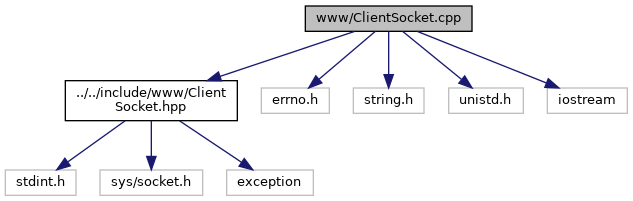
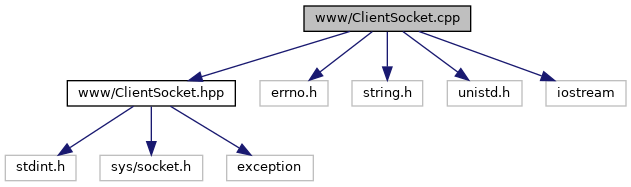
deploy: a7a002efcf221a9d8ebd544183a8181709af5a44

diff --git a/Request_8cpp_source.html b/Request_8cpp_source.html
@@ -63,7 +63,7 @@ $(document).ready(function(){initNavTree('Request_8cpp_source.html',''); initRes
 <div class="title">Request.cpp</div>  </div>
 </div><!--header-->
 <div class="contents">
-<a href="Request_8cpp.html">Go to the documentation of this file.</a><div class="fragment"><div class="line"><a name="l00001"></a><span class="lineno">    1</span>&#160;<span class="preprocessor">#include &quot;../../include/http/Request.hpp&quot;</span></div>
+<a href="Request_8cpp.html">Go to the documentation of this file.</a><div class="fragment"><div class="line"><a name="l00001"></a><span class="lineno">    1</span>&#160;<span class="preprocessor">#include &quot;<a class="code" href="Request_8hpp.html">http/Request.hpp</a>&quot;</span></div>
 <div class="line"><a name="l00002"></a><span class="lineno">    2</span>&#160; </div>
 <div class="line"><a name="l00003"></a><span class="lineno">    3</span>&#160;<span class="preprocessor">#include &lt;string.h&gt;</span></div>
 <div class="line"><a name="l00004"></a><span class="lineno">    4</span>&#160; </div>
@@ -96,6 +96,7 @@ $(document).ready(function(){initNavTree('Request_8cpp_source.html',''); initRes
 <div class="line"><a name="l00046"></a><span class="lineno"><a class="line" href="classhttp_1_1Request.html#a867f9779974151717071cbc33e09de37">   46</a></span>&#160;<span class="keyword">const</span> std::string&amp; <a class="code" href="classhttp_1_1Request.html#a867f9779974151717071cbc33e09de37">Request::getBody</a>(<span class="keywordtype">void</span>)<span class="keyword"> const </span>{ <span class="keywordflow">return</span> <a class="code" href="classhttp_1_1Request.html#aeeeb51221d331e67c9b68f26720d7840">m_body</a>; };</div>
 <div class="line"><a name="l00047"></a><span class="lineno">   47</span>&#160; </div>
 <div class="line"><a name="l00048"></a><span class="lineno">   48</span>&#160;} <span class="comment">/* namespace http */</span></div>
+<div class="ttc" id="aRequest_8hpp_html"><div class="ttname"><a href="Request_8hpp.html">Request.hpp</a></div></div>
 <div class="ttc" id="aclasshttp_1_1Request_html"><div class="ttname"><a href="classhttp_1_1Request.html">http::Request</a></div><div class="ttdoc">...</div><div class="ttdef"><b>Definition:</b> <a href="Request_8hpp_source.html#l00016">Request.hpp:16</a></div></div>
 <div class="ttc" id="aclasshttp_1_1Request_html_a20cb90fc8ee4461541ec901399af0a0e"><div class="ttname"><a href="classhttp_1_1Request.html#a20cb90fc8ee4461541ec901399af0a0e">http::Request::Request</a></div><div class="ttdeci">Request()</div><div class="ttdoc">Constructs a new Request object.</div><div class="ttdef"><b>Definition:</b> <a href="Request_8cpp_source.html#l00010">Request.cpp:10</a></div></div>
 <div class="ttc" id="aclasshttp_1_1Request_html_a23ba1b63e9b836434bddc526105fd69e"><div class="ttname"><a href="classhttp_1_1Request.html#a23ba1b63e9b836434bddc526105fd69e">http::Request::getHead</a></div><div class="ttdeci">const std::string &amp; getHead(void) const</div><div class="ttdef"><b>Definition:</b> <a href="Request_8cpp_source.html#l00045">Request.cpp:45</a></div></div>

diff --git a/Connection_8cpp_source.html b/Connection_8cpp_source.html
@@ -63,7 +63,7 @@ $(document).ready(function(){initNavTree('Connection_8cpp_source.html',''); init
 <div class="title">Connection.cpp</div>  </div>
 </div><!--header-->
 <div class="contents">
-<a href="Connection_8cpp.html">Go to the documentation of this file.</a><div class="fragment"><div class="line"><a name="l00001"></a><span class="lineno">    1</span>&#160;<span class="preprocessor">#include &quot;../../include/www/Connection.hpp&quot;</span></div>
+<a href="Connection_8cpp.html">Go to the documentation of this file.</a><div class="fragment"><div class="line"><a name="l00001"></a><span class="lineno">    1</span>&#160;<span class="preprocessor">#include &quot;<a class="code" href="Connection_8hpp.html">www/Connection.hpp</a>&quot;</span></div>
 <div class="line"><a name="l00002"></a><span class="lineno">    2</span>&#160; </div>
 <div class="line"><a name="l00003"></a><span class="lineno">    3</span>&#160;<span class="preprocessor">#include &lt;unistd.h&gt;</span></div>
 <div class="line"><a name="l00004"></a><span class="lineno">    4</span>&#160; </div>
@@ -95,6 +95,7 @@ $(document).ready(function(){initNavTree('Connection_8cpp_source.html',''); init
 <div class="line"><a name="l00049"></a><span class="lineno"><a class="line" href="classwww_1_1Connection.html#a4f966fe191dc5a1186b9c2b41a5e6677">   49</a></span>&#160;<span class="keyword">const</span> <a class="code" href="classhttp_1_1Request.html">http::Request</a>&amp; <a class="code" href="classwww_1_1Connection.html#a4f966fe191dc5a1186b9c2b41a5e6677">Connection::getRequest</a>(<span class="keywordtype">void</span>)<span class="keyword"> const </span>{ <span class="keywordflow">return</span> <a class="code" href="classwww_1_1Connection.html#a304a28bac7860a6641a9accd7f6ff3bd">m_request</a>; }</div>
 <div class="line"><a name="l00050"></a><span class="lineno">   50</span>&#160; </div>
 <div class="line"><a name="l00051"></a><span class="lineno">   51</span>&#160;} <span class="comment">/* namespace www */</span></div>
+<div class="ttc" id="aConnection_8hpp_html"><div class="ttname"><a href="Connection_8hpp.html">Connection.hpp</a></div></div>
 <div class="ttc" id="aclasshttp_1_1Request_html"><div class="ttname"><a href="classhttp_1_1Request.html">http::Request</a></div><div class="ttdoc">...</div><div class="ttdef"><b>Definition:</b> <a href="Request_8hpp_source.html#l00016">Request.hpp:16</a></div></div>
 <div class="ttc" id="aclasswww_1_1ClientSocket_html"><div class="ttname"><a href="classwww_1_1ClientSocket.html">www::ClientSocket</a></div><div class="ttdoc">...</div><div class="ttdef"><b>Definition:</b> <a href="ClientSocket_8hpp_source.html#l00016">ClientSocket.hpp:16</a></div></div>
 <div class="ttc" id="aclasswww_1_1ClientSocket_html_a016e6961f175a4c84e21169f179c07c9"><div class="ttname"><a href="classwww_1_1ClientSocket.html#a016e6961f175a4c84e21169f179c07c9">www::ClientSocket::close</a></div><div class="ttdeci">void close(void)</div><div class="ttdef"><b>Definition:</b> <a href="ClientSocket_8cpp_source.html#l00067">ClientSocket.cpp:67</a></div></div>

diff --git a/ClientSocket_8cpp_source.html b/ClientSocket_8cpp_source.html
@@ -63,7 +63,7 @@ $(document).ready(function(){initNavTree('ClientSocket_8cpp_source.html',''); in
 <div class="title">ClientSocket.cpp</div>  </div>
 </div><!--header-->
 <div class="contents">
-<a href="ClientSocket_8cpp.html">Go to the documentation of this file.</a><div class="fragment"><div class="line"><a name="l00001"></a><span class="lineno">    1</span>&#160;<span class="preprocessor">#include &quot;../../include/www/ClientSocket.hpp&quot;</span></div>
+<a href="ClientSocket_8cpp.html">Go to the documentation of this file.</a><div class="fragment"><div class="line"><a name="l00001"></a><span class="lineno">    1</span>&#160;<span class="preprocessor">#include &quot;<a class="code" href="ClientSocket_8hpp.html">www/ClientSocket.hpp</a>&quot;</span></div>
 <div class="line"><a name="l00002"></a><span class="lineno">    2</span>&#160; </div>
 <div class="line"><a name="l00003"></a><span class="lineno">    3</span>&#160;<span class="preprocessor">#include &lt;errno.h&gt;</span></div>
 <div class="line"><a name="l00004"></a><span class="lineno">    4</span>&#160;<span class="preprocessor">#include &lt;string.h&gt;</span></div>
@@ -127,6 +127,7 @@ $(document).ready(function(){initNavTree('ClientSocket_8cpp_source.html',''); in
 <div class="line"><a name="l00082"></a><span class="lineno">   82</span>&#160;}</div>
 <div class="line"><a name="l00083"></a><span class="lineno">   83</span>&#160; </div>
 <div class="line"><a name="l00084"></a><span class="lineno">   84</span>&#160;} <span class="comment">/* namespace www */</span></div>
+<div class="ttc" id="aClientSocket_8hpp_html"><div class="ttname"><a href="ClientSocket_8hpp.html">ClientSocket.hpp</a></div></div>
 <div class="ttc" id="aclasswww_1_1ClientSocket_html"><div class="ttname"><a href="classwww_1_1ClientSocket.html">www::ClientSocket</a></div><div class="ttdoc">...</div><div class="ttdef"><b>Definition:</b> <a href="ClientSocket_8hpp_source.html#l00016">ClientSocket.hpp:16</a></div></div>
 <div class="ttc" id="aclasswww_1_1ClientSocket_html_a016e6961f175a4c84e21169f179c07c9"><div class="ttname"><a href="classwww_1_1ClientSocket.html#a016e6961f175a4c84e21169f179c07c9">www::ClientSocket::close</a></div><div class="ttdeci">void close(void)</div><div class="ttdef"><b>Definition:</b> <a href="ClientSocket_8cpp_source.html#l00067">ClientSocket.cpp:67</a></div></div>
 <div class="ttc" id="aclasswww_1_1ClientSocket_html_a1298e26e50c8cec16a91ffe561c98197"><div class="ttname"><a href="classwww_1_1ClientSocket.html#a1298e26e50c8cec16a91ffe561c98197">www::ClientSocket::~ClientSocket</a></div><div class="ttdeci">~ClientSocket(void)</div><div class="ttdoc">Destroys the ClientSocket object.</div><div class="ttdef"><b>Definition:</b> <a href="ClientSocket_8cpp_source.html#l00029">ClientSocket.cpp:29</a></div></div>

diff --git a/ClientSocket_8cpp.html b/ClientSocket_8cpp.html
@@ -65,7 +65,7 @@ $(document).ready(function(){initNavTree('ClientSocket_8cpp.html',''); initResiz
 <div class="title">ClientSocket.cpp File Reference</div>  </div>
 </div><!--header-->
 <div class="contents">
-<div class="textblock"><code>#include &quot;<a class="el" href="ClientSocket_8hpp_source.html">../../include/www/ClientSocket.hpp</a>&quot;</code><br />
+<div class="textblock"><code>#include &quot;<a class="el" href="ClientSocket_8hpp_source.html">www/ClientSocket.hpp</a>&quot;</code><br />
 <code>#include &lt;errno.h&gt;</code><br />
 <code>#include &lt;string.h&gt;</code><br />
 <code>#include &lt;unistd.h&gt;</code><br />
@@ -75,15 +75,15 @@ Include dependency graph for ClientSocket.cpp:</div>
 <div class="dyncontent">
 <div class="center"><img src="ClientSocket_8cpp__incl.png" border="0" usemap="#awww_2ClientSocket_8cpp" alt=""/></div>
 <map name="awww_2ClientSocket_8cpp" id="awww_2ClientSocket_8cpp">
-<area shape="rect" title=" " alt="" coords="305,5,472,32"/>
-<area shape="rect" href="ClientSocket_8hpp.html" title=" " alt="" coords="65,80,237,121"/>
-<area shape="rect" title=" " alt="" coords="261,87,329,114"/>
-<area shape="rect" title=" " alt="" coords="353,87,424,114"/>
-<area shape="rect" title=" " alt="" coords="449,87,523,114"/>
-<area shape="rect" title=" " alt="" coords="547,87,627,114"/>
-<area shape="rect" title=" " alt="" coords="5,169,76,196"/>
-<area shape="rect" title=" " alt="" coords="100,169,203,196"/>
-<area shape="rect" title=" " alt="" coords="227,169,313,196"/>
+<area shape="rect" title=" " alt="" coords="304,5,471,32"/>
+<area shape="rect" href="ClientSocket_8hpp.html" title=" " alt="" coords="67,80,235,107"/>
+<area shape="rect" title=" " alt="" coords="260,80,328,107"/>
+<area shape="rect" title=" " alt="" coords="352,80,423,107"/>
+<area shape="rect" title=" " alt="" coords="447,80,522,107"/>
+<area shape="rect" title=" " alt="" coords="546,80,626,107"/>
+<area shape="rect" title=" " alt="" coords="5,155,76,181"/>
+<area shape="rect" title=" " alt="" coords="100,155,203,181"/>
+<area shape="rect" title=" " alt="" coords="227,155,313,181"/>
 </map>
 </div>
 </div>

diff --git a/Request_8cpp.html b/Request_8cpp.html
@@ -65,19 +65,19 @@ $(document).ready(function(){initNavTree('Request_8cpp.html',''); initResizable(
 <div class="title">Request.cpp File Reference</div>  </div>
 </div><!--header-->
 <div class="contents">
-<div class="textblock"><code>#include &quot;<a class="el" href="Request_8hpp_source.html">../../include/http/Request.hpp</a>&quot;</code><br />
+<div class="textblock"><code>#include &quot;<a class="el" href="Request_8hpp_source.html">http/Request.hpp</a>&quot;</code><br />
 <code>#include &lt;string.h&gt;</code><br />
 </div><div class="textblock"><div class="dynheader">
 Include dependency graph for Request.cpp:</div>
 <div class="dyncontent">
 <div class="center"><img src="Request_8cpp__incl.png" border="0" usemap="#ahttp_2Request_8cpp" alt=""/></div>
 <map name="ahttp_2Request_8cpp" id="ahttp_2Request_8cpp">
-<area shape="rect" title=" " alt="" coords="124,5,256,32"/>
-<area shape="rect" href="Request_8hpp.html" title=" " alt="" coords="69,80,191,121"/>
-<area shape="rect" title=" " alt="" coords="216,87,287,114"/>
-<area shape="rect" title=" " alt="" coords="5,169,76,196"/>
-<area shape="rect" title=" " alt="" coords="101,169,159,196"/>
-<area shape="rect" title=" " alt="" coords="184,169,247,196"/>
+<area shape="rect" title=" " alt="" coords="127,5,259,32"/>
+<area shape="rect" href="Request_8hpp.html" title=" " alt="" coords="63,80,197,107"/>
+<area shape="rect" title=" " alt="" coords="221,80,292,107"/>
+<area shape="rect" title=" " alt="" coords="5,155,76,181"/>
+<area shape="rect" title=" " alt="" coords="101,155,159,181"/>
+<area shape="rect" title=" " alt="" coords="184,155,247,181"/>
 </map>
 </div>
 </div>

diff --git a/Connection_8cpp.html b/Connection_8cpp.html
@@ -65,16 +65,16 @@ $(document).ready(function(){initNavTree('Connection_8cpp.html',''); initResizab
 <div class="title">Connection.cpp File Reference</div>  </div>
 </div><!--header-->
 <div class="contents">
-<div class="textblock"><code>#include &quot;<a class="el" href="Connection_8hpp_source.html">../../include/www/Connection.hpp</a>&quot;</code><br />
+<div class="textblock"><code>#include &quot;<a class="el" href="Connection_8hpp_source.html">www/Connection.hpp</a>&quot;</code><br />
 <code>#include &lt;unistd.h&gt;</code><br />
 </div><div class="textblock"><div class="dynheader">
 Include dependency graph for Connection.cpp:</div>
 <div class="dyncontent">
 <div class="center"><img src="Connection_8cpp__incl.png" border="0" usemap="#awww_2Connection_8cpp" alt=""/></div>
 <map name="awww_2Connection_8cpp" id="awww_2Connection_8cpp">
-<area shape="rect" title=" " alt="" coords="230,5,389,32"/>
-<area shape="rect" href="Connection_8hpp.html" title=" " alt="" coords="103,80,337,107"/>
-<area shape="rect" title=" " alt="" coords="361,80,436,107"/>
+<area shape="rect" title=" " alt="" coords="211,5,370,32"/>
+<area shape="rect" href="Connection_8hpp.html" title=" " alt="" coords="140,80,300,107"/>
+<area shape="rect" title=" " alt="" coords="324,80,399,107"/>
 <area shape="rect" href="Request_8hpp.html" title=" " alt="" coords="54,155,199,181"/>
 <area shape="rect" href="ClientSocket_8hpp.html" title=" " alt="" coords="227,155,407,181"/>
 <area shape="rect" title=" " alt="" coords="175,229,246,256"/>
